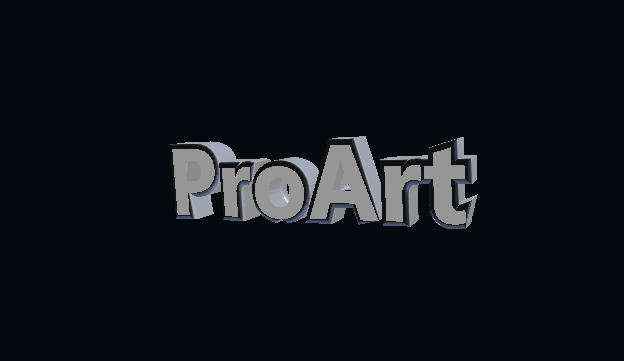
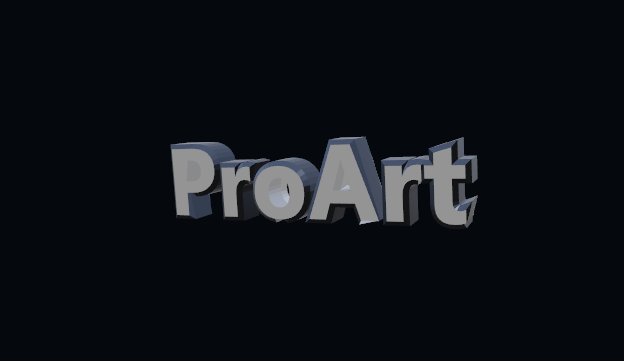
fix(3b): MSAA, bevel<->wall junction, correct geometry-bevel normals
Review feedback on the bevel look:
- Enable multisampling on the default framebuffer (8x/4x/2x fallback) --
  the aliased silhouette was making everything read as disconnected.
- Shading bevel: also tilt the wall normal toward the cap within
  bevelSize of the top/bottom edge, so the cap band and the wall meet in
  a smooth quarter-round instead of the band floating.
- Geometry bevel: the edge normal was the CCW outward normal, but font
  glyph contours wind clockwise -> the chamfer reflected the wrong
  hemisphere and looked stepped. New edge_outN() picks the outward
  normal from the contour's signed area. Profile is now a flat ~45deg
  facet (carpenter's cut) rather than a quarter-round bullnose. Default
  bevel_size 0.05 -> 0.035. Plain walls use edge_outN too.

Changed region(s): [[0.274, 0.3657, 0.7917, 0.6399]]

diff --git a/src/geometry/contour_mesh.c b/src/geometry/contour_mesh.c
@@ -49,6 +49,16 @@ static float signed_area_pts(const v2 *p, int n)
 }
 static float signed_area(const Contour *c) { return signed_area_pts(c->pts, c->count); }
 
+/* normal da aresta a->b apontando para FORA da forma (ccw = contorno anti-horario) */
+static v2 edge_outN(v2 a, v2 b, int ccw)
+{
+    float ex = b.x - a.x, ey = b.y - a.y;
+    float l = sqrtf(ex * ex + ey * ey);
+    if (l < 1e-9f) return (v2){ 0.0f, 0.0f };
+    ex /= l; ey /= l;
+    return ccw ? (v2){ ey, -ex } : (v2){ -ey, ex };
+}
+
 /* offset de `c` para o interior por `d`. `inward_left` = 1 se o interior fica a
    esquerda das arestas (contorno CCW). Fallback ao ponto original quando o miter
    estoura. Escreve `c->count` pontos em `out`. */
@@ -205,10 +215,9 @@ int contour_mesh_build(const ContourSet *cs, MeshParams p, MeshData *out)
                 int j = (i + 1) % co->count;
                 v2 o0 = os[i], o1 = os[j];
                 v2 c0 = co->pts[i], c1 = co->pts[j];
-                float ex = o1.x - o0.x, ey = o1.y - o0.y;
-                float el = sqrtf(ex * ex + ey * ey);
-                if (el < 1e-9f) continue;
-                float nx = ey / el, ny = -ex / el;
+                v2 on = edge_outN(o0, o1, ccw);
+                if (on.x == 0.0f && on.y == 0.0f) continue;
+                float nx = on.x, ny = on.y;
 
                 unsigned w = (unsigned)vb.n;
                 vpush(&vb, (MeshVertex){ o0.x, o0.y,  wall_z, nx, ny, 0, 2 });
@@ -217,26 +226,31 @@ int contour_mesh_build(const ContourSet *cs, MeshParams p, MeshData *out)
                 vpush(&vb, (MeshVertex){ o0.x, o0.y, -wall_z, nx, ny, 0, 2 });
                 quad(&ib, w + 0, w + 1, w + 2, w + 3);
 
+                /* faceta plana (corte 45 graus): de (c @ hz) a (outset @ hz-bd).
+                   Normal constante = para fora + para cima, ortogonal a faceta. */
+                float run = sqrtf((o0.x - c0.x) * (o0.x - c0.x) + (o0.y - c0.y) * (o0.y - c0.y));
+                float fl = sqrtf(run * run + bd * bd);
+                float fnx = 0.0f, fny = 0.0f, fnz = 1.0f;
+                if (fl > 1e-6f) { fnx = nx * (bd / fl); fny = ny * (bd / fl); fnz = run / fl; }
+
                 for (int k = 0; k < segs; ++k) {
-                    float a0 = (float)k / (float)segs * 1.5707963f;
-                    float a1 = (float)(k + 1) / (float)segs * 1.5707963f;
-                    float s0 = sinf(a0), s1 = sinf(a1), cn0 = cosf(a0), cn1 = cosf(a1);
-                    float z0 = hz - bd * (1.0f - cn0), z1 = hz - bd * (1.0f - cn1);
-                    v2 A0 = { c0.x + (o0.x - c0.x) * s0, c0.y + (o0.y - c0.y) * s0 };
-                    v2 B0 = { c1.x + (o1.x - c1.x) * s0, c1.y + (o1.y - c1.y) * s0 };
-                    v2 A1 = { c0.x + (o0.x - c0.x) * s1, c0.y + (o0.y - c0.y) * s1 };
-                    v2 B1 = { c1.x + (o1.x - c1.x) * s1, c1.y + (o1.y - c1.y) * s1 };
+                    float u0 = (float)k / (float)segs, u1 = (float)(k + 1) / (float)segs;
+                    float z0 = hz - bd * u0, z1 = hz - bd * u1;
+                    v2 A0 = { c0.x + (o0.x - c0.x) * u0, c0.y + (o0.y - c0.y) * u0 };
+                    v2 B0 = { c1.x + (o1.x - c1.x) * u0, c1.y + (o1.y - c1.y) * u0 };
+                    v2 A1 = { c0.x + (o0.x - c0.x) * u1, c0.y + (o0.y - c0.y) * u1 };
+                    v2 B1 = { c1.x + (o1.x - c1.x) * u1, c1.y + (o1.y - c1.y) * u1 };
                     unsigned f = (unsigned)vb.n;
-                    vpush(&vb, (MeshVertex){ A0.x, A0.y,  z0, nx * s0, ny * s0,  cn0, 3 });
-                    vpush(&vb, (MeshVertex){ B0.x, B0.y,  z0, nx * s0, ny * s0,  cn0, 3 });
-                    vpush(&vb, (MeshVertex){ B1.x, B1.y,  z1, nx * s1, ny * s1,  cn1, 3 });
-                    vpush(&vb, (MeshVertex){ A1.x, A1.y,  z1, nx * s1, ny * s1,  cn1, 3 });
+                    vpush(&vb, (MeshVertex){ A0.x, A0.y,  z0, fnx, fny,  fnz, 3 });
+                    vpush(&vb, (MeshVertex){ B0.x, B0.y,  z0, fnx, fny,  fnz, 3 });
+                    vpush(&vb, (MeshVertex){ B1.x, B1.y,  z1, fnx, fny,  fnz, 3 });
+                    vpush(&vb, (MeshVertex){ A1.x, A1.y,  z1, fnx, fny,  fnz, 3 });
                     quad(&ib, f + 0, f + 1, f + 2, f + 3);
                     unsigned b = (unsigned)vb.n;
-                    vpush(&vb, (MeshVertex){ A1.x, A1.y, -z1, nx * s1, ny * s1, -cn1, 3 });
-                    vpush(&vb, (MeshVertex){ B1.x, B1.y, -z1, nx * s1, ny * s1, -cn1, 3 });
-                    vpush(&vb, (MeshVertex){ B0.x, B0.y, -z0, nx * s0, ny * s0, -cn0, 3 });
-                    vpush(&vb, (MeshVertex){ A0.x, A0.y, -z0, nx * s0, ny * s0, -cn0, 3 });
+                    vpush(&vb, (MeshVertex){ A1.x, A1.y, -z1, fnx, fny, -fnz, 3 });
+                    vpush(&vb, (MeshVertex){ B1.x, B1.y, -z1, fnx, fny, -fnz, 3 });
+                    vpush(&vb, (MeshVertex){ B0.x, B0.y, -z0, fnx, fny, -fnz, 3 });
+                    vpush(&vb, (MeshVertex){ A0.x, A0.y, -z0, fnx, fny, -fnz, 3 });
                     quad(&ib, b + 0, b + 1, b + 2, b + 3);
                 }
             }
@@ -260,10 +274,9 @@ int contour_mesh_build(const ContourSet *cs, MeshParams p, MeshData *out)
         for (int i = 0; i < co->count; ++i) {
             int j = (i + 1) % co->count;
             v2 a0 = co->pts[i], a1 = co->pts[j];
-            float ex = a1.x - a0.x, ey = a1.y - a0.y;
-            float el = sqrtf(ex * ex + ey * ey);
-            if (el < 1e-9f) continue;
-            float nx = ey / el, ny = -ex / el;   /* normal da aresta */
+            v2 on = edge_outN(a0, a1, ccw);
+            if (on.x == 0.0f && on.y == 0.0f) continue;
+            float nx = on.x, ny = on.y;
 
             /* parede: a0/a1 de +cap_z a -cap_z */
             unsigned w = (unsigned)vb.n;

diff --git a/src/gl_window.c b/src/gl_window.c
@@ -22,6 +22,12 @@
 #define WGL_COLOR_BITS_ARB      0x2014
 #define WGL_DEPTH_BITS_ARB      0x2022
 #define WGL_STENCIL_BITS_ARB    0x2023
+#define WGL_SAMPLE_BUFFERS_ARB  0x2041
+#define WGL_SAMPLES_ARB         0x2042
+
+#ifndef GL_MULTISAMPLE
+#define GL_MULTISAMPLE 0x809D
+#endif
 
 typedef HGLRC(WINAPI *PFN_wglCreateContextAttribsARB)(HDC, HGLRC, const int *);
 typedef BOOL (WINAPI *PFN_wglChoosePixelFormatARB)(HDC, const int *, const FLOAT *, UINT, int *, UINT *);
@@ -128,19 +134,25 @@ GlWindow *gl_window_create(HINSTANCE hInst, DWORD style, DWORD exstyle, HWND par
 
     int pf = 0;
     if (p_wglChoosePixelFormatARB) {
-        const int attribs[] = {
-            WGL_DRAW_TO_WINDOW_ARB, 1,
-            WGL_SUPPORT_OPENGL_ARB, 1,
-            WGL_DOUBLE_BUFFER_ARB,  1,
-            WGL_PIXEL_TYPE_ARB,     WGL_TYPE_RGBA_ARB,
-            WGL_COLOR_BITS_ARB,     32,
-            WGL_DEPTH_BITS_ARB,     24,
-            WGL_STENCIL_BITS_ARB,   8,
-            0
-        };
-        UINT n = 0;
-        p_wglChoosePixelFormatARB(g->dc, attribs, NULL, 1, &pf, &n);
-        if (n == 0) pf = 0;
+        int msaa[] = { 8, 4, 2, 0 };
+        for (int mi = 0; mi < 4 && pf == 0; ++mi) {
+            const int attribs[] = {
+                WGL_DRAW_TO_WINDOW_ARB, 1,
+                WGL_SUPPORT_OPENGL_ARB, 1,
+                WGL_DOUBLE_BUFFER_ARB,  1,
+                WGL_PIXEL_TYPE_ARB,     WGL_TYPE_RGBA_ARB,
+                WGL_COLOR_BITS_ARB,     32,
+                WGL_DEPTH_BITS_ARB,     24,
+                WGL_STENCIL_BITS_ARB,   8,
+                WGL_SAMPLE_BUFFERS_ARB, msaa[mi] ? 1 : 0,
+                WGL_SAMPLES_ARB,        msaa[mi],
+                0
+            };
+            UINT n = 0;
+            p_wglChoosePixelFormatARB(g->dc, attribs, NULL, 1, &pf, &n);
+            if (n == 0) pf = 0;
+            else if (msaa[mi]) log_infof("MSAA %dx", msaa[mi]);
+        }
     }
     if (!pf) {
         PIXELFORMATDESCRIPTOR pfd;
@@ -183,6 +195,7 @@ GlWindow *gl_window_create(HINSTANCE hInst, DWORD style, DWORD exstyle, HWND par
     if (p_wglSwapIntervalEXT) p_wglSwapIntervalEXT(1);
 
     if (!gl_load()) log_errorf("gl_load falhou");
+    glEnable(GL_MULTISAMPLE);
 
     static bool logged_gl = false;
     if (!logged_gl) {

diff --git a/src/material.c b/src/material.c
@@ -24,6 +24,7 @@ int material_init(Material *m)
     m->uSdfSize   = glGetUniformLocation(m->prog, "uSdfSize");
     m->uBevelMode = glGetUniformLocation(m->prog, "uBevelMode");
     m->uBevelSize = glGetUniformLocation(m->prog, "uBevelSize");
+    m->uHalfDepth = glGetUniformLocation(m->prog, "uHalfDepth");
     glUseProgram(m->prog);
     glUniform1i(m->uEnvTex, 0);   /* unidade de textura 0 */
     glUniform1i(m->uSdf, 1);      /* unidade de textura 1 */
@@ -53,12 +54,13 @@ void material_set_style(const Material *m, int mode, float metalness, float roug
     }
 }
 
-void material_set_bevel(const Material *m, int bevel_mode, float bevel_size,
+void material_set_bevel(const Material *m, int bevel_mode, float bevel_size, float half_depth,
                         v2 sdf_min, v2 sdf_size, unsigned sdf_tex)
 {
     glUseProgram(m->prog);
     glUniform1i(m->uBevelMode, sdf_tex ? bevel_mode : 2);   /* sem SDF -> trata como off */
     glUniform1f(m->uBevelSize, bevel_size);
+    glUniform1f(m->uHalfDepth, half_depth);
     glUniform2f(m->uSdfMin, sdf_min.x, sdf_min.y);
     glUniform2f(m->uSdfSize, sdf_size.x, sdf_size.y);
     if (sdf_tex) {

diff --git a/src/material.h b/src/material.h
@@ -6,14 +6,14 @@ typedef struct {
     unsigned prog;
     int uModel, uView, uProj, uCamPos, uBaseColor;
     int uMode, uMetalness, uRoughness, uEnvTex, uHasEnv;
-    int uSdf, uSdfMin, uSdfSize, uBevelMode, uBevelSize;
+    int uSdf, uSdfMin, uSdfSize, uBevelMode, uBevelSize, uHalfDepth;
 } Material;
 
 int  material_init(Material *m);                                   /* 0 = falha */
 void material_begin(const Material *m, m4 view, m4 proj, v3 campos, v3 base);
 void material_set_style(const Material *m, int mode, float metalness, float roughness,
                         unsigned env_tex /* 0 = nenhuma */);
-void material_set_bevel(const Material *m, int bevel_mode, float bevel_size,
+void material_set_bevel(const Material *m, int bevel_mode, float bevel_size, float half_depth,
                         v2 sdf_min, v2 sdf_size, unsigned sdf_tex /* 0 = nenhuma */);
 void material_set_model(const Material *m, m4 model);
 void material_destroy(Material *m);

diff --git a/src/scene.c b/src/scene.c
@@ -208,7 +208,7 @@ void scene_render(SceneRenderer *s, double t, int fb_w, int fb_h)
 
     material_begin(&s->mat, view, proj, eye, s->base_color);
     material_set_style(&s->mat, s->material_mode, s->metalness, s->roughness, s->env_tex);
-    material_set_bevel(&s->mat, s->bevel_mode, s->bevel_size,
+    material_set_bevel(&s->mat, s->bevel_mode, s->bevel_size, s->hz,
                        (v2){ s->sdf_min_x, s->sdf_min_y },
                        (v2){ s->sdf_size_x, s->sdf_size_y }, s->has_sdf ? s->sdf_tex : 0);
     material_set_model(&s->mat, model);

diff --git a/src/config.c b/src/config.c
@@ -28,8 +28,8 @@ void config_defaults(Config *c)
     c->roughness = 0.25f;
     c->env_path[0] = 0;
     c->bevel_mode = 0;
-    c->bevel_size = 0.05f;
-    c->bevel_depth = 0.04f;
+    c->bevel_size = 0.035f;
+    c->bevel_depth = 0.035f;
     c->bevel_segments = 4;
     c->shell = 0;
     c->wall_thickness = 0.06f;

diff --git a/docs/qa-checklist-phase-3b.md b/docs/qa-checklist-phase-3b.md
@@ -40,11 +40,22 @@ Buildar (shell do w64devkit, na raiz): `mingw32-make -f build/Makefile`
       abaixo de ~150 ms.
 - [ ] 100 / 150 / 200 % DPI: aba Geometria sem corte (é a aba mais cheia).
 
+## Melhorias pós-review (mesma fase)
+
+- [x] **MSAA** ligado (8x/4x/2x conforme a GPU, no framebuffer padrão — o MSAA
+      em FBO HDR do §8.2 ainda é a Fase 4). Bordas suaves.
+- [x] Bevel **sombreado**: a normal da parede também é inclinada perto da tampa,
+      fechando o quarto-de-círculo — a faixa da tampa "encosta" na parede.
+- [x] Bevel **geométrico**: normais corrigidas pela orientação do contorno (fontes
+      têm winding horário — a normal estava invertida, quebrando o reflexo); perfil
+      passou a ser **faceta plana de ~45°** ("corte marceneiro"), não bullnose;
+      `bevel_size` padrão reduzido para 0.035.
+
 ## Notas conhecidas (fases posteriores)
 
-- Bevel **sombreado**: a silhueta continua uma quina reta (o SDF só inclina a normal
-  das faces). O micro-bevel geométrico suaviza um pouco. Aceito para screensaver
-  visto ~de frente.
+- Bevel **sombreado**: a silhueta continua uma quina reta (o SDF só inclina as
+  normais). O micro-bevel geométrico + a inclinação da parede suavizam. Aceito
+  para screensaver visto ~de frente.
 - Bevel **geométrico**: usa **outset** do contorno (robusto em cantos côncavos, ao
   contrário do inset do spec §5.5). Letra fica ~`bevel_size` maior.
 - Casca oca: um offset só; auto-interseção em traço fino → shell pulado naquela peça.
